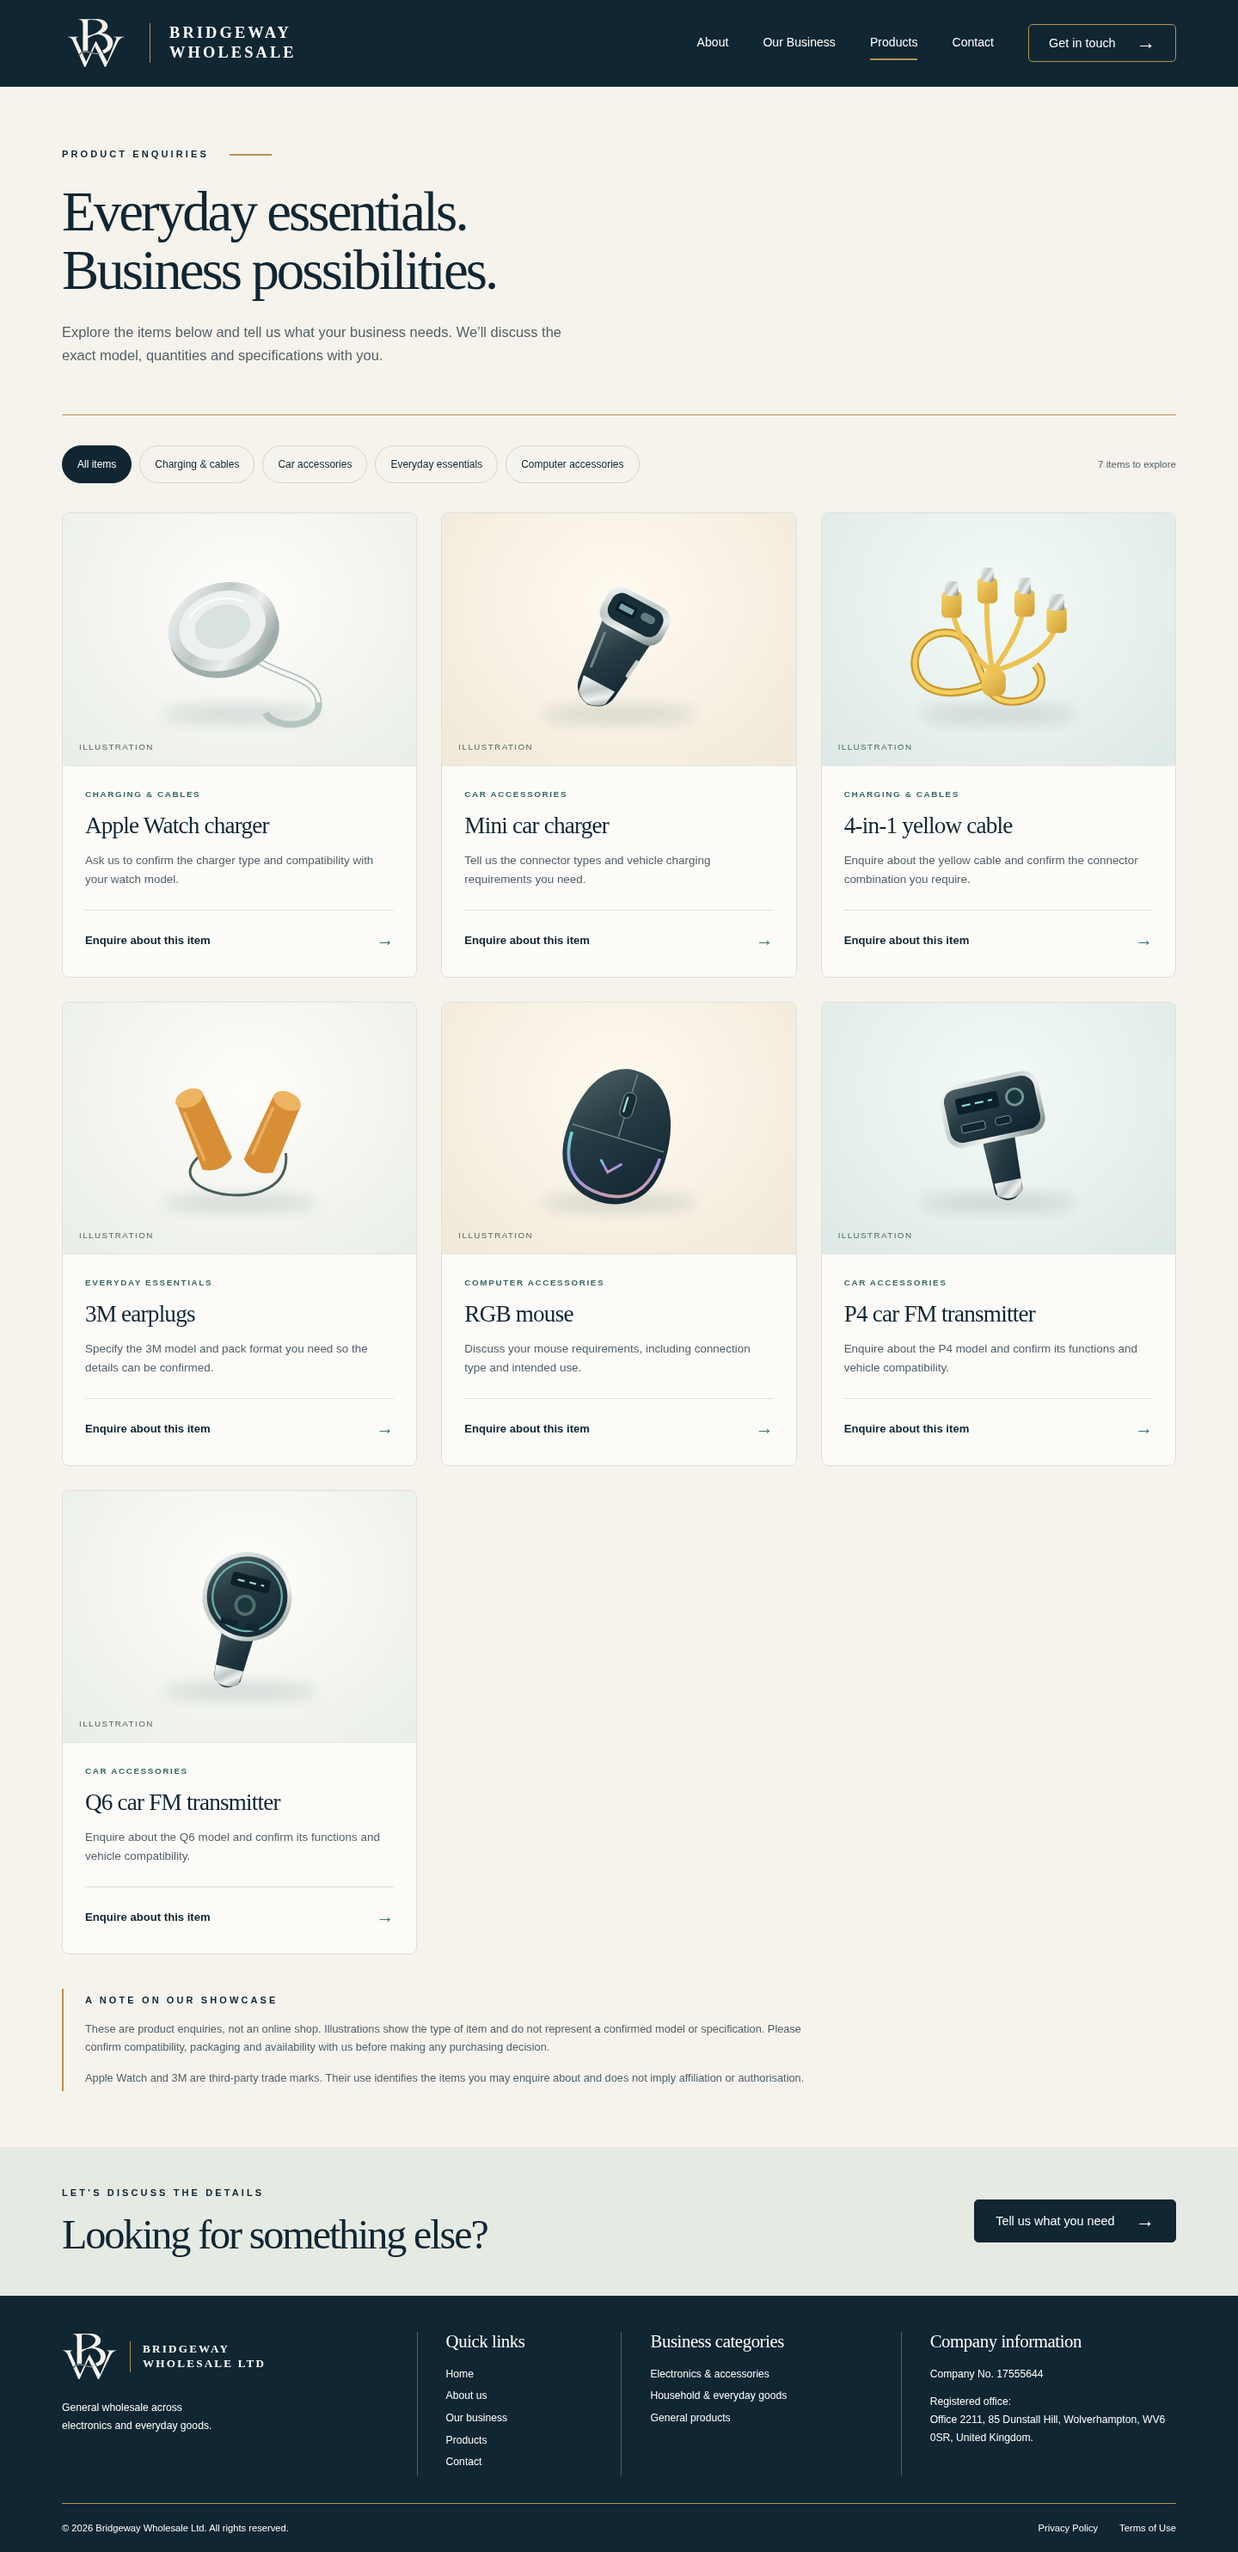
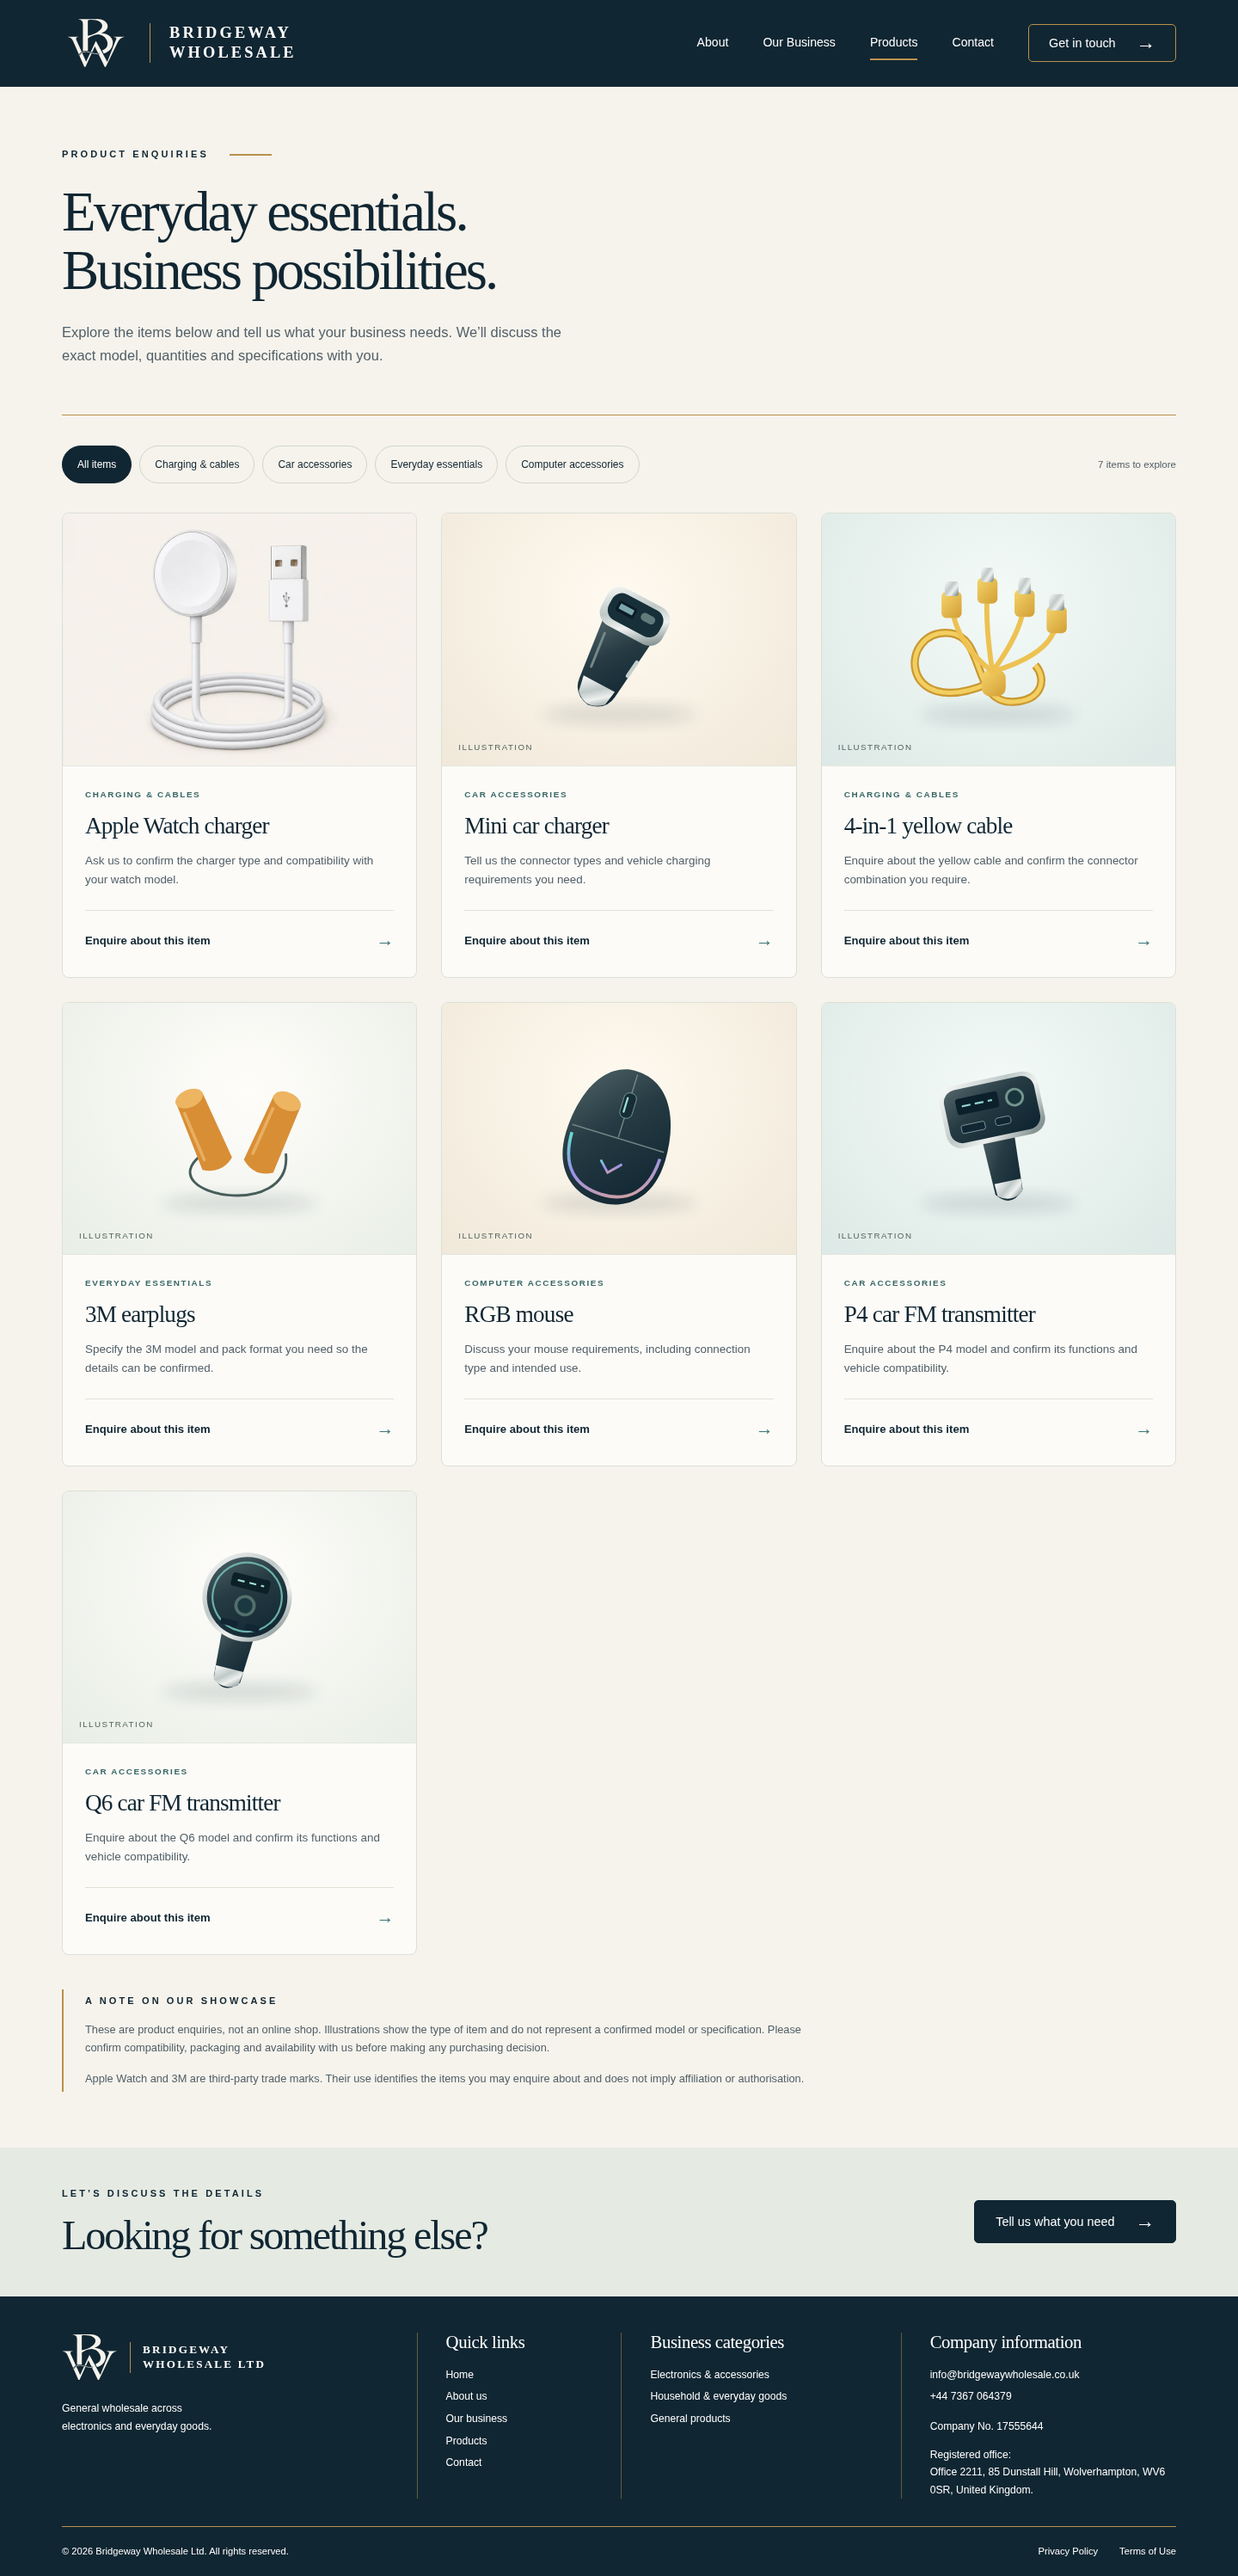
Replace Apple Watch charger illustration with edited studio product image

diff --git a/public/app.js b/public/app.js
@@ -14,8 +14,8 @@ const form=()=>`<form id="enquiry" novalidate><div class="form-heading"><span cl
 const contactSection=()=>`<section class="contact-band" aria-labelledby="talk"><div class="contact-picture">${photo('warehouse-contact')}</div><div class="container contact-grid"><div class="contact-copy"><span class="eyebrow">LET’S CONNECT</span><h2 id="talk">Let’s talk<br> business.</h2><span class="gold-rule"></span><p>Have a wholesale requirement or a general enquiry? Tell us what you’re looking for, and we can discuss the details.</p><div class="contact-direct" aria-label="Contact details">${directContact}</div></div>${form()}</div></section>`;
 const steps=`<section class="steps container"><span class="eyebrow">HOW TO ENQUIRE <i></i></span><div class="steps-grid">${[['Tell us what you need.','Give us an overview of the goods you’re looking for and your business requirements.'],['Discuss the details.','We’ll go through your requirements with you and clarify the key details.'],['Agree the next steps.','Once the requirements are clear, we can discuss a suitable way forward.']].map((s,i)=>`<div class="step"><span class="step-number">0${i+1}</span><div><h3>${s[0]}</h3><p>${s[1]}</p></div></div>`).join('')}</div></section>`;
 const businessCards=`<div class="category-grid">${categories.map((c,i)=>`<a class="category-card" href="/our-business#${c.id}">${photo(c.image,'',c.alt)}<div class="category-overlay"><span class="category-index">0${i+1} /</span><h3>${c.name}</h3><span class="gold-rule"></span><p>${c.text}</p><span class="category-arrow" aria-hidden="true">→</span></div></a>`).join('')}</div>`;
-const productCard=(product)=>`<article class="product-card" data-category="${product.category}"><div class="product-visual"><img src="/products/${product.illustration}.svg" width="560" height="400" alt="Illustration of ${product.name}; actual model may differ" loading="lazy"><span class="product-art-label">Illustration</span></div><div class="product-card-body"><p class="product-category">${product.category}</p><h3>${product.name}</h3><p class="product-description">${product.description}</p><a class="product-enquiry" href="/contact?product=${product.id}#enquiry" aria-label="Enquire about ${product.name}">Enquire about this item <span aria-hidden="true">→</span></a></div></article>`;
-const featuredProducts=`<section class="featured-products container"><div class="section-heading"><div><span class="eyebrow">PRODUCT ENQUIRIES <i></i></span><h2>A closer look at<br>what you need.</h2></div><div class="product-section-copy"><p>Explore a selection of items, then talk to us about the details your business needs.</p><a class="text-link" href="/products">Explore all products <span aria-hidden="true">→</span></a></div></div><div class="product-grid">${[productData[0],productData[2],productData[4]].map(productCard).join('')}</div><p class="product-disclaimer">Illustrations are indicative. Exact models, specifications and availability are confirmed on enquiry.</p></section>`;
+const productCard=(product)=>`<article class="product-card" data-category="${product.category}"><div class="product-visual"><img src="/products/${product.image||`${product.illustration}.svg`}" width="560" height="400" alt="${product.imageAlt||`Illustration of ${product.name}; actual model may differ`}" loading="lazy">${product.image?'':'<span class="product-art-label">Illustration</span>'}</div><div class="product-card-body"><p class="product-category">${product.category}</p><h3>${product.name}</h3><p class="product-description">${product.description}</p><a class="product-enquiry" href="/contact?product=${product.id}#enquiry" aria-label="Enquire about ${product.name}">Enquire about this item <span aria-hidden="true">→</span></a></div></article>`;
+const featuredProducts=`<section class="featured-products container"><div class="section-heading"><div><span class="eyebrow">PRODUCT ENQUIRIES <i></i></span><h2>A closer look at<br>what you need.</h2></div><div class="product-section-copy"><p>Explore a selection of items, then talk to us about the details your business needs.</p><a class="text-link" href="/products">Explore all products <span aria-hidden="true">→</span></a></div></div><div class="product-grid">${[productData[0],productData[2],productData[4]].map(productCard).join('')}</div><p class="product-disclaimer">Product visuals are indicative. Exact models, specifications and availability are confirmed on enquiry.</p></section>`;
 const home=`<section class="hero"><div class="hero-photo">${photo('warehouse')}<div class="hero-arc"></div><div class="feature-card">A broader<br> view of<br> wholesale.<span class="gold-rule"></span></div></div><div class="container hero-inner"><div class="hero-copy"><span class="eyebrow">UK GENERAL WHOLESALE <i></i></span><h1>Connecting businesses.<br> Opening <em>possibilities.</em></h1><p>General wholesale across electronics and everyday goods. Speak to us about your business requirements.</p><div class="hero-actions"><a class="button" href="/contact#enquiry">Discuss your requirements <span aria-hidden="true">→</span></a><a class="text-link" href="/about">About us</a></div></div></div></section><section class="intro container"><span class="section-number">01</span><div><span class="eyebrow">ABOUT BRIDGEWAY</span><h2>A straightforward<br> approach to wholesale.</h2></div><div class="intro-text"><p>Bridgeway Wholesale Ltd is a UK general wholesale company working across electronics, accessories and assorted everyday goods.</p><p>We bring different business categories together through one point of contact, starting with a clear understanding of your requirements.</p></div></section><section class="business-section"><div class="container"><div class="section-heading"><div><span class="eyebrow">OUR BUSINESS <i></i></span><h2>Different categories.<br> One point of contact.</h2></div><p>From electronics to everyday essentials, explore the areas we work across and talk to us about the goods your business needs.</p></div>${businessCards}</div></section>${featuredProducts}${steps}${contactSection()}`;
 const pageHero=(label,title,copy)=>`<section class="page-hero container"><span class="eyebrow">${label} <i></i></span><h1>${title}</h1><p>${copy}</p></section>`;
 const about=`${pageHero('ABOUT BRIDGEWAY','A straightforward approach<br> to wholesale.','A UK general wholesale business. A clear conversation about what your business needs.')}<section class="split container"><div class="arched-photo">${photo('warehouse')}</div><div><span class="eyebrow">WHO WE ARE</span><h2>Broad categories.<br> A focused conversation.</h2><p>Bridgeway Wholesale Ltd works across electronics, accessories, household items and assorted general goods. Our website introduces these business categories and provides a way to discuss your requirements.</p><p>Every enquiry starts with the details: the type of goods, quantities, intended use and any specific requirements. From there, we can clarify the scope and discuss possible next steps.</p><a class="text-link" href="/our-business">Explore our business <span aria-hidden="true">→</span></a><p class="caption">Photography is illustrative and does not depict company premises.</p></div></section><section class="values container"><div class="section-heading"><h2>Clarity at every step.</h2><p>A practical approach to business conversations.</p></div><div class="value-grid"><div><span>01</span><h3>Understand the requirement</h3><p>Tell us what you are looking for, including the details that matter to your business.</p></div><div><span>02</span><h3>Keep the conversation clear</h3><p>Discuss product categories, specifications and questions before deciding how to proceed.</p></div><div><span>03</span><h3>Consider the next steps</h3><p>Any supply arrangements are discussed and agreed separately, based on the enquiry.</p></div></div></section><section class="callout"><div class="container"><h2>Start with a conversation.</h2><a class="button" href="/contact#enquiry">Discuss your requirements <span aria-hidden="true">→</span></a></div></section>`;

diff --git a/public/products.js b/public/products.js
@@ -5,7 +5,9 @@ const productData = [
     "name": "Apple Watch charger",
     "category": "Charging & cables",
     "description": "Ask us to confirm the charger type and compatibility with your watch model.",
-    "illustration": "watch"
+    "illustration": "watch",
+    "image": "apple-watch-charger-studio.webp",
+    "imageAlt": "Studio-style edited image of a white magnetic watch charger with a USB-A connector and coiled cable"
   },
   {
     "id": "mini-car-charger",

diff --git a/QA.md b/QA.md
@@ -62,3 +62,7 @@ Added the owner-supplied telephone +44 7367 064379 and email info@bridgewaywhole
 The owner's screenshot showed the earlier Contact copy and no new contact links. The contact-details commit was confirmed on remote `main`. Inspection found that JavaScript/CSS used unchanged URLs with a one-hour public cache, which permits stale client code after a deployment. Production deployment/version could not be inspected: the environment proxy rejected access to the live domain with HTTP 403, and no Vercel project credentials or log connector was available. Browser cache versus an older active deployment cannot be conclusively distinguished from this environment.
 
 The server now adds a content hash to each app.js/products.js/styles.css URL in the served HTML and requires revalidation of HTML, JavaScript and CSS. Images retain their existing cache behaviour. A regression test verifies versioned asset URLs, current contact content and cache headers; all seven server integration tests passed. Chromium confirmed that the new page does not request the old unversioned app.js and that email/telephone links are visible at 320/375/390/768/1024/1440/1600 px with no page errors or horizontal overflow. Evidence: `artifacts/contact-cache-qa.json`, `artifacts/contact-details-desktop.png`, `artifacts/contact-details-mobile.png`. These are local checks; production must deploy the fix before it takes effect.
+
+## Apple Watch charger image update — 6 November 2026
+
+Replaced the charger's vector illustration with a studio-style edited version of the owner-supplied image. The photo card has meaningful edited-image alternative text and no incorrect “Illustration” badge. Chromium confirmed the 1000 px WebP loads on both Home and Products, no horizontal overflow at 320/390/768/1440 px, appropriate desktop/mobile framing and the correct prefilled enquiry destination. The existing product filters/artwork/enquiry browser test passed again. Evidence: `artifacts/apple-watch-charger-desktop.png` and `artifacts/apple-watch-charger-mobile.png`; full Products screenshots were refreshed. Production deployment has not been independently verified.

diff --git a/IMAGE-SOURCES.md b/IMAGE-SOURCES.md
@@ -21,3 +21,9 @@ The download script requests JPEG output, 1600 px for the hero and 1000 px for o
 ## Product showcase artwork
 
 The seven SVGs under `public/products/` (watch, car-charger, cable, earplugs, mouse, fm-p4, fm-q6) are original vector illustrations authored for this website, not third-party stock photographs or actual product photography. No brand logos, packaging artwork or product-specific certification marks are included. Cards and alternative text identify them as illustrations; exact models require owner confirmation. Their purpose is consistent interim presentation until actual product photos are supplied.
+
+## Apple Watch charger studio image — 6 November 2026
+
+`public/products/apple-watch-charger-studio.webp` replaces the watch illustration in rendered product cards. Source: the owner's attached charger image in this chat. The image-editing tool produced an AI-assisted studio-style edit preserving the recognisable white charging puck, USB-A plug and cable, removing promotional badges/text and arranging a coiled cable on warm ivory with soft shadows. This is edited product imagery, not an untouched source photograph. No series compatibility, cable-length, certification or official-brand claims were copied into the website.
+
+The generated full-size PNG remains at `/workspace/generated_images/exec-694459bd-586b-4f14-9dda-77519dbabd71.png`. The web derivative is 1000 × 714 WebP, approximately 15 KB, converted with ImageMagick for delivery. Other products retain their labelled vector illustrations. The unused `watch.svg` is retained as a legacy asset.

diff --git a/README.md b/README.md
@@ -67,3 +67,5 @@ The local SVG illustrations in `public/products/` were authored for this site an
 ## Updates and browser caching
 
 Served HTML versions the app scripts and stylesheet using their content hashes. HTML, JavaScript and CSS use `Cache-Control: no-cache` so later deployments do not leave visitors running hour-old code under unchanged URLs. Images are cached separately. If production still shows older content, first confirm that Vercel's active production deployment points to the intended `main` commit; pushing source is not proof of a successful deployment. Reload an existing browser tab after that deployment becomes Ready.
+
+The Apple Watch charger now uses `public/products/apple-watch-charger-studio.webp`, a professionally restyled, AI-assisted edit of the owner's supplied source image. Its card omits the illustration badge; the remaining six products still use labelled vector illustrations. Optional `image` and `imageAlt` fields in `public/products.js` override the SVG fallback, allowing subsequent supplied product images to be added consistently. Image provenance is recorded in IMAGE-SOURCES.md.
